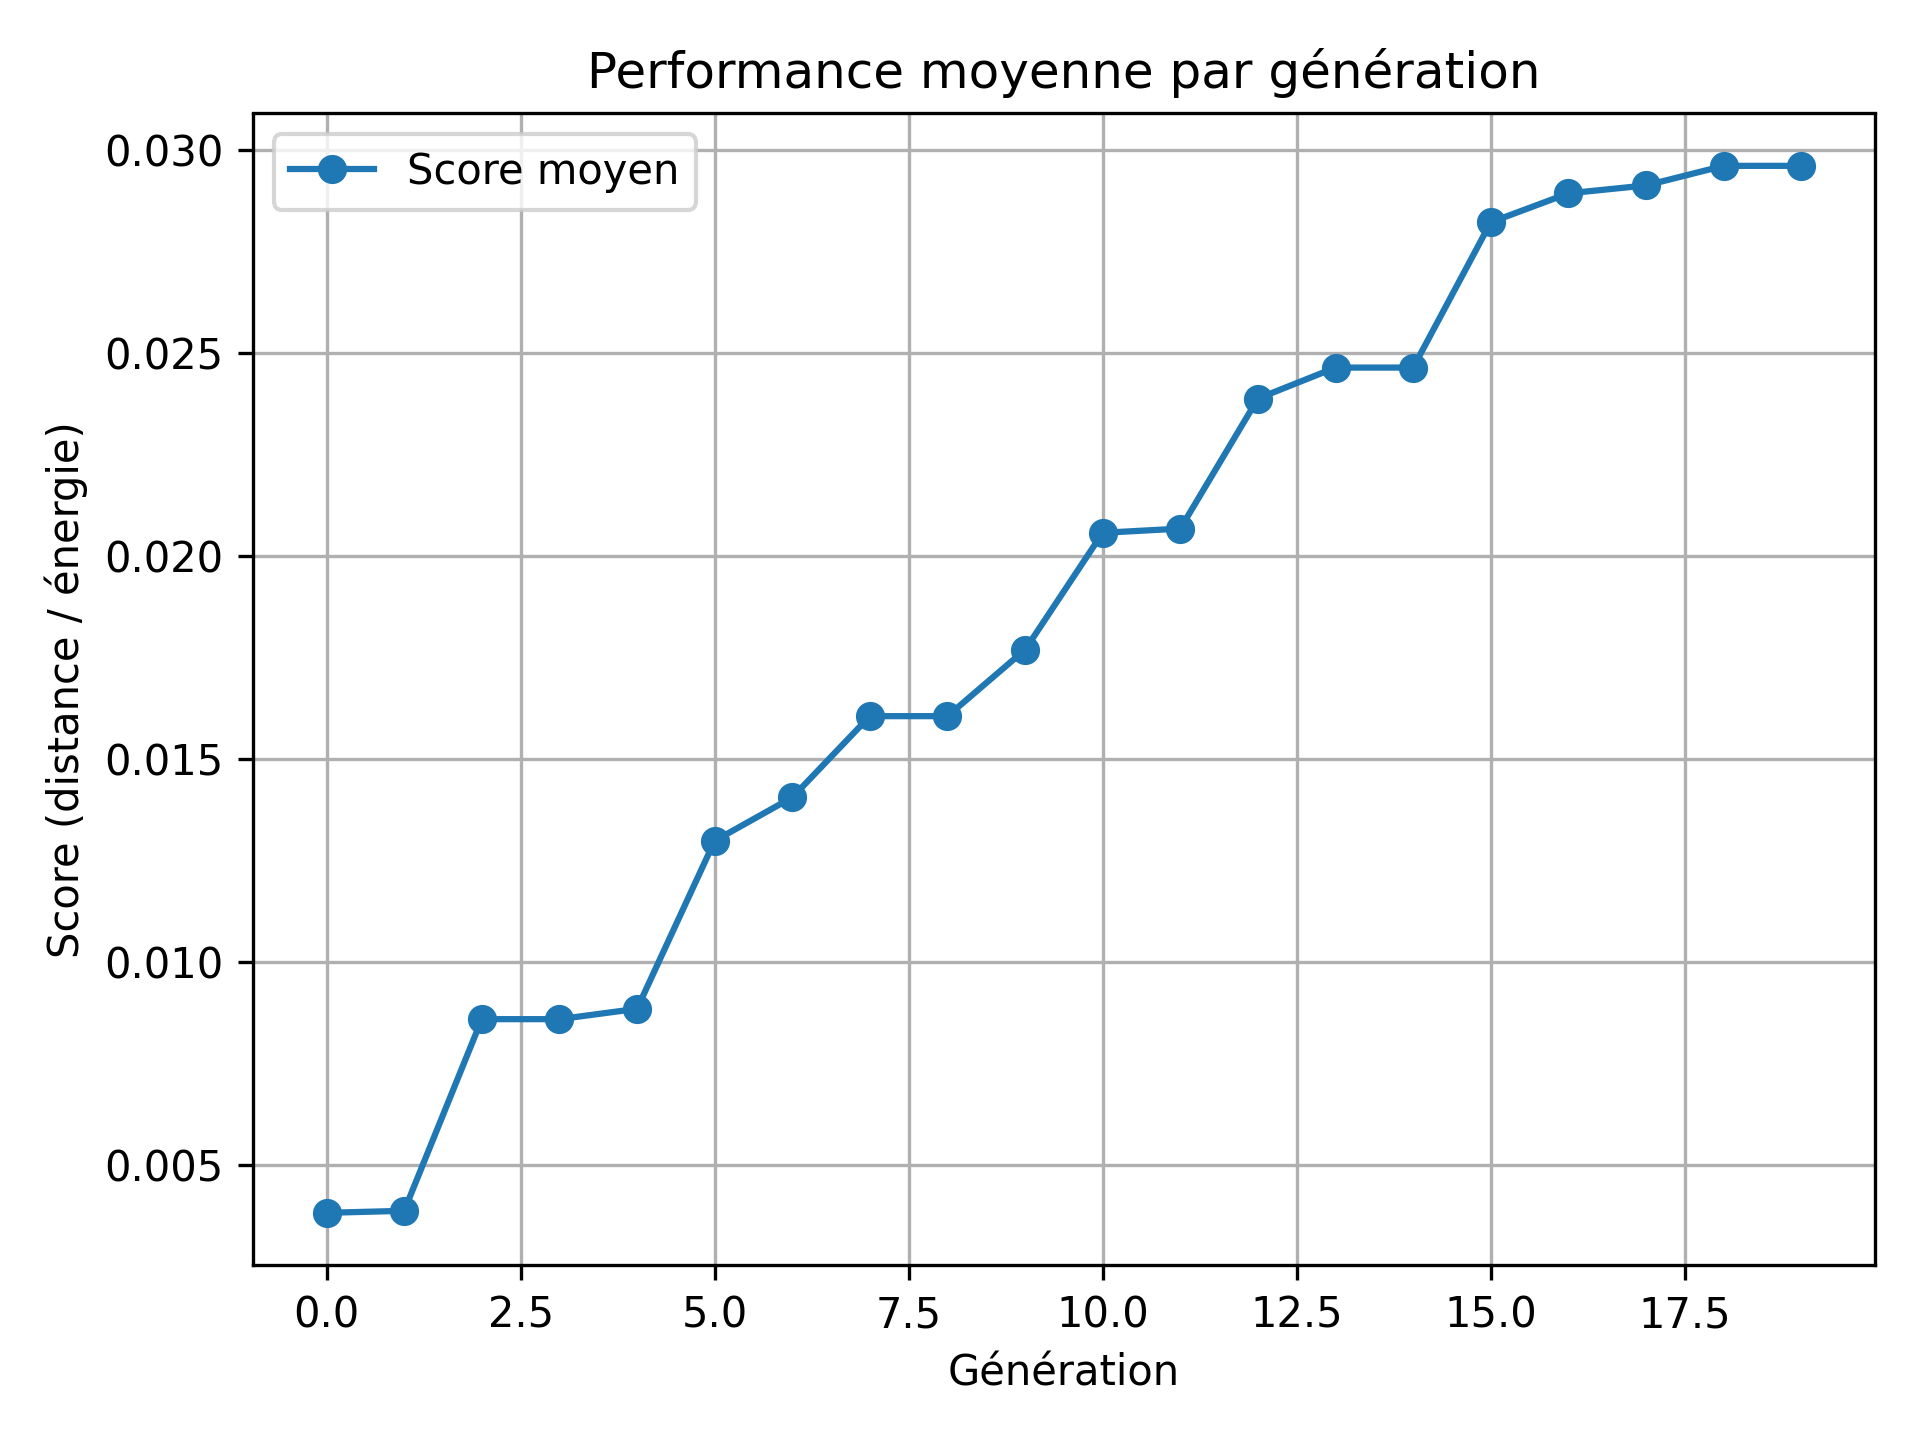
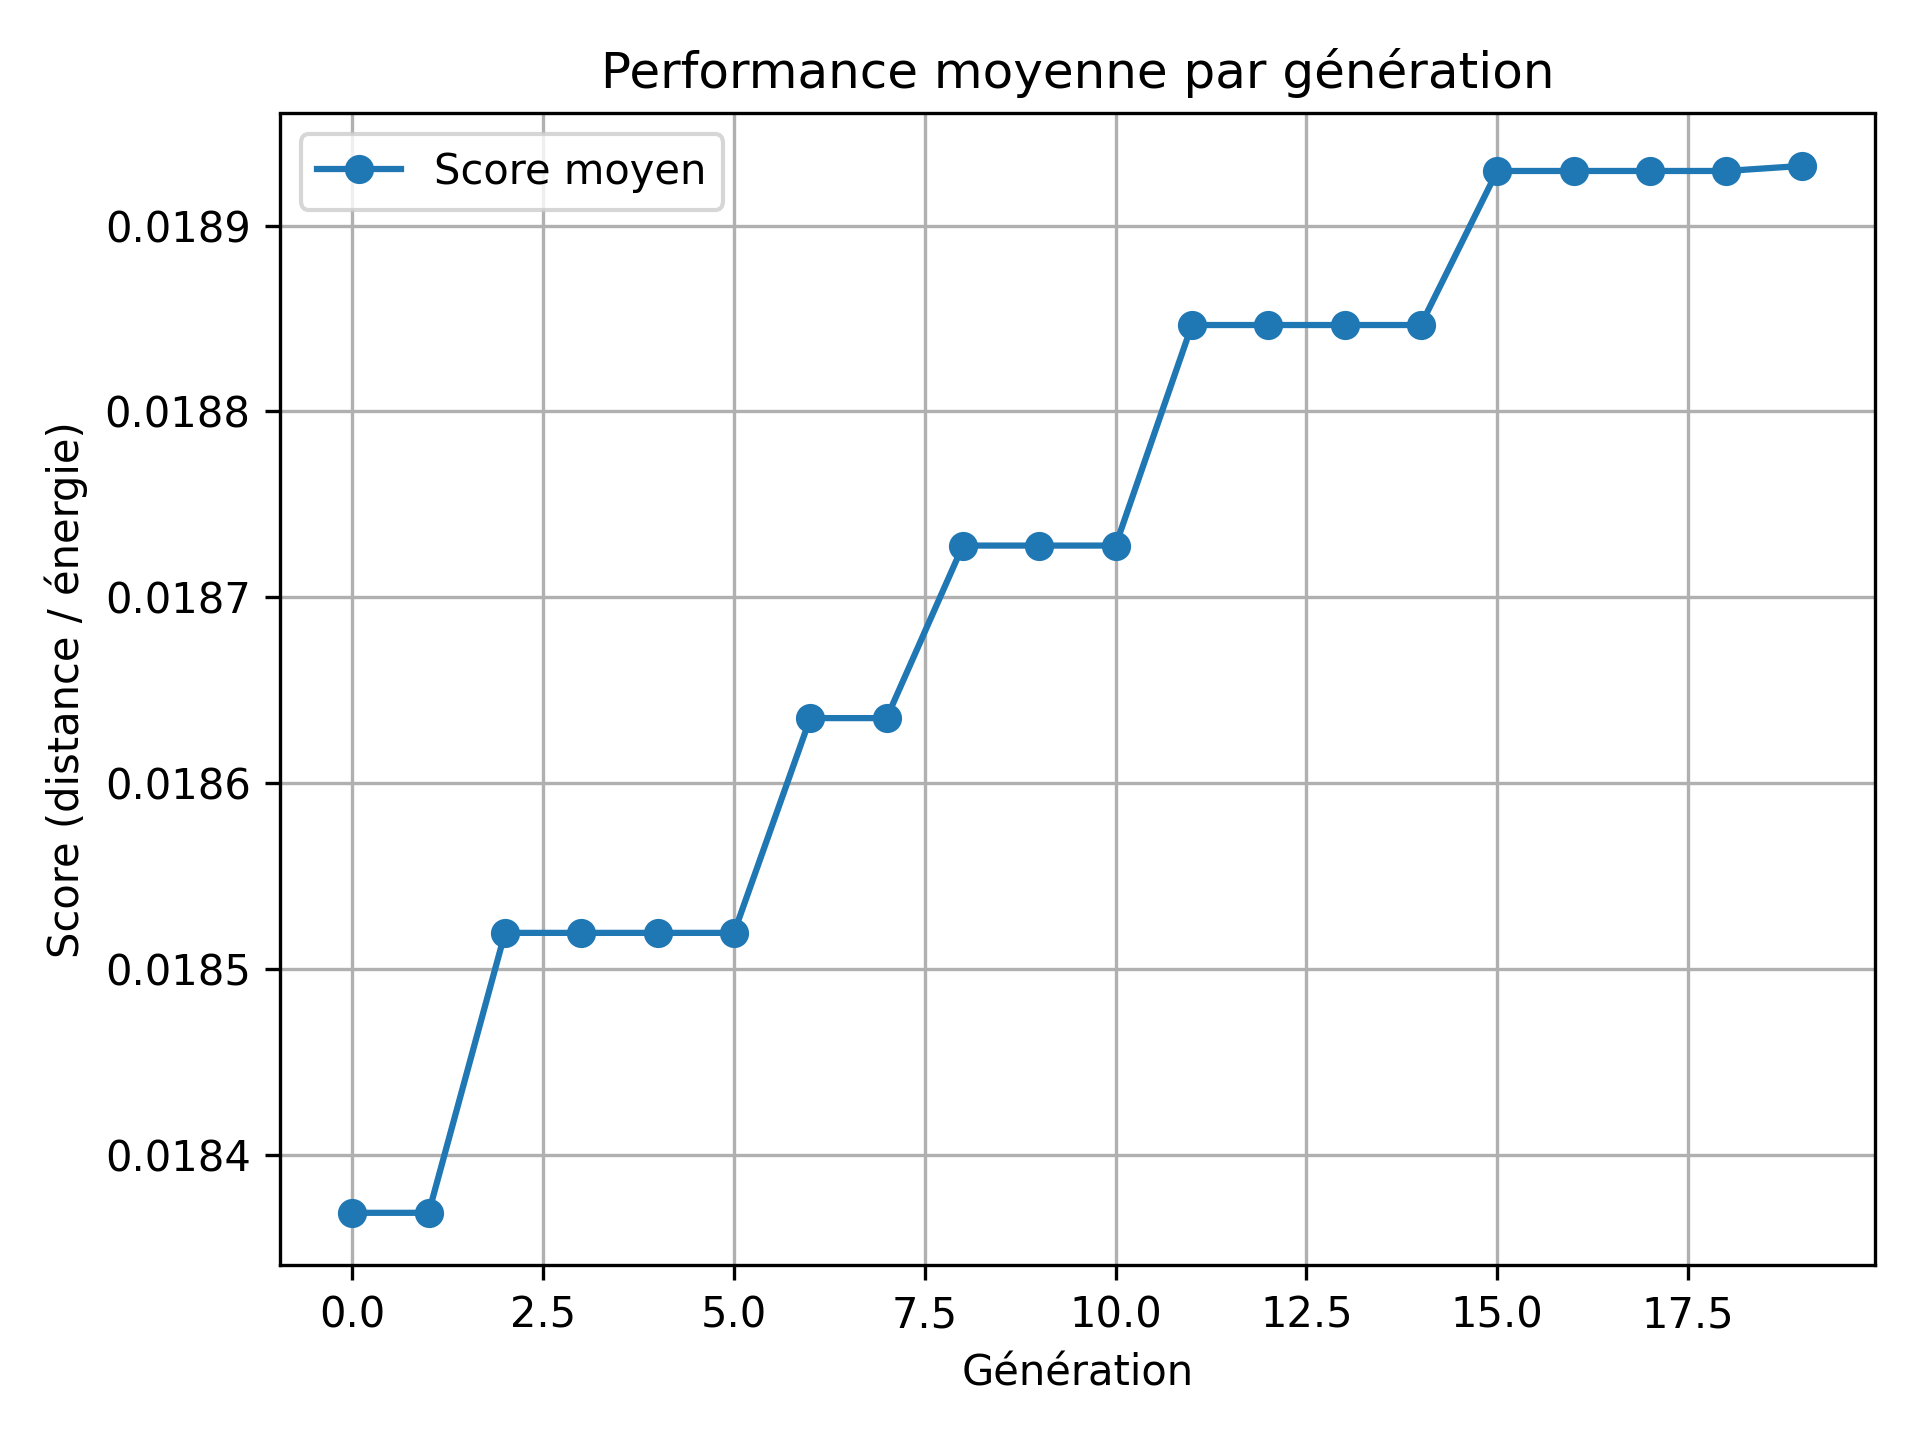
new genom

diff --git a/genome_utils.py b/genome_utils.py
@@ -1,42 +1,3 @@
-import numpy as np
-from point import Point
-from link import Lien
-from muscle import Muscle
-from creature import Creature
-import copy
-import random
-
-
-def sinus_sum_func(freqs, amps, phases):
-    def omega_func(t):
-        return sum(a * np.sin(2 * np.pi * f * t + p) for a, f, p in zip(amps, freqs, phases))
-    return omega_func
-
-def genome_to_creature(genome):
-    points_data = genome['points']
-    links_data = genome['links']
-    muscles_data = genome['muscles']
-
-    points = [Point(x, y) for x, y in points_data]
-
-    liens = []
-    for i, j in links_data:
-        lien = Lien(points[i], points[j], i=i, j=j)
-        liens.append(lien)
-
-    muscles = []
-    for muscle_def in muscles_data:
-        i, j, k = muscle_def['p0'], muscle_def['p1'], muscle_def['p2']
-        freqs = muscle_def.get('freqs', [1.0])
-        amps = muscle_def.get('amps', [1.0])
-        phases = muscle_def.get('phases', [0.0])
-        intensite = muscle_def.get('intensite', 10.0)
-        omega_func = sinus_sum_func(freqs, amps, phases)
-        muscle = Muscle(points[i], points[j], points[k], omega_func, intensite)
-        muscles.append(muscle)
-
-    return Creature(points, liens, muscles)
-
 import copy
 import random
 import numpy as np
@@ -44,19 +5,19 @@ import numpy as np
 def mutate_genome(genome, mutation_strength=0.1):
     new_genome = copy.deepcopy(genome)
 
-    # # === Mutation position points 0 et 2 (autour de p1) ===
-    # if "points" in new_genome and len(new_genome["points"]) >= 3:
-    #     p1 = np.array(new_genome["points"][1])
-    #     l1 = np.linalg.norm(np.array(new_genome["points"][0]) - p1)
-    #     l2 = np.linalg.norm(np.array(new_genome["points"][2]) - p1)
+    # === Mutation position points 0 et 2 (autour de p1) ===
+    if "points" in new_genome and len(new_genome["points"]) >= 3:
+        p1 = np.array(new_genome["points"][1])
+        l1 = np.linalg.norm(np.array(new_genome["points"][0]) - p1)
+        l2 = np.linalg.norm(np.array(new_genome["points"][2]) - p1)
 
-    #     theta0 = random.uniform(0, 2 * np.pi)
-    #     theta2 = random.uniform(0, 2 * np.pi)
+        theta0 = random.uniform(0, 2 * np.pi)
+        theta2 = random.uniform(0, 2 * np.pi)
 
-    #     new_genome["points"][0] = (p1 + l1 * np.array([np.cos(theta0), np.sin(theta0)])).tolist()
-    #     new_genome["points"][2] = (p1 + l2 * np.array([np.cos(theta2), np.sin(theta2)])).tolist()
+        new_genome["points"][0] = (p1 + l1 * np.array([np.cos(theta0), np.sin(theta0)])).tolist()
+        new_genome["points"][2] = (p1 + l2 * np.array([np.cos(theta2), np.sin(theta2)])).tolist()
 
-    # === Mutation des muscles (au plus UNE mutation par muscle) ===
+    # === Mutation des muscles (une seule mutation par muscle) ===
     for m in new_genome.get("muscles", []):
         actions = []
 
@@ -67,9 +28,10 @@ def mutate_genome(genome, mutation_strength=0.1):
         if len(m.get("phases", [])) > 0:
             actions.append("mut_phase")
         actions.append("mut_intensite")
+        actions.append("mut_base")  # ✅ nouvelle mutation possible
         if len(m.get("freqs", [])) > 1:
             actions.append("remove")
-        if len(m.get("freqs", [])) < 6:
+        if len(m.get("freqs", [])) < 4:
             actions.append("add")
 
         action = random.choice(actions)
@@ -89,6 +51,9 @@ def mutate_genome(genome, mutation_strength=0.1):
         elif action == "mut_intensite":
             m["intensite"] = max(0.1, m.get("intensite", 10.0) + random.gauss(0, mutation_strength * 5))
 
+        elif action == "mut_base":
+            m["base"] = max(10.0, min(170.0, m.get("base", 90.0) + random.gauss(0, mutation_strength * 100)))
+
         elif action == "add":
             m["freqs"].append(random.uniform(0.1, 2.0))
             m["amps"].append(random.uniform(0.1, 2.0))
@@ -101,4 +66,3 @@ def mutate_genome(genome, mutation_strength=0.1):
             m["phases"].pop(idx)
 
     return new_genome
-

diff --git a/factory.py b/factory.py
@@ -4,9 +4,10 @@ from link import Lien
 from muscle import Muscle
 from creature import Creature
 
-def sinus_sum_func(freqs, amps, phases):
+def sinus_sum_func(freqs, amps, phases, base=0.0):
     def omega_func(t):
-        return sum(a * np.sin(2 * np.pi * f * t + p) for a, f, p in zip(amps, freqs, phases))
+        oscillation = sum(a * np.sin(2 * np.pi * f * t + p) for a, f, p in zip(amps, freqs, phases))
+        return np.radians(base) + oscillation
     return omega_func
 
 def genome_to_creature(genome):
@@ -19,8 +20,10 @@ def genome_to_creature(genome):
         freqs = m.get("freqs", [1.0])
         amps = m.get("amps", [1.0])
         phases = m.get("phases", [0.0])
+        base = m.get("base", 90.0)  # ⬅ base en degrés par défaut à 90°
         intensite = m.get("intensite", 10.0)
-        omega_func = sinus_sum_func(freqs, amps, phases)
+        omega_func = sinus_sum_func(freqs, amps, phases, base)
         muscles.append(Muscle(points[i], points[j], points[k], omega_func, intensite))
 
     return Creature(points, liens, muscles)
+

diff --git a/simulate_population.py b/simulate_population.py
@@ -8,27 +8,14 @@ from tqdm import tqdm
 from concurrent.futures import ProcessPoolExecutor
 
 # === Paramètres de simulation ===
-minimal_genome = {
-    "points": [[0, 0], [1, 0], [2, 1]],
-    "links": [(0, 1), (1, 2)],
-    "muscles": [
-        {
-            "p0": 0,
-            "p1": 1,
-            "p2": 2,
-            "freqs": [0.5, 0.25],
-            "amps": [1.5, 0.7],
-            "phases": [0.0, 1.0],
-            "intensite": 10.0
-        }
-    ]
-}
+with open("best_genome_last_generation.json", "r") as f:
+    minimal_genome = json.load(f)
 
-n = 200
+n = 1000
 dt = 0.01
-steps = 500
+steps = 1000
 generations = 20
-keep_fraction = 0.25
+keep_fraction = 0.01
 mutation_strength = 0.01
 
 def simulate_creature_from_genome(genome):
